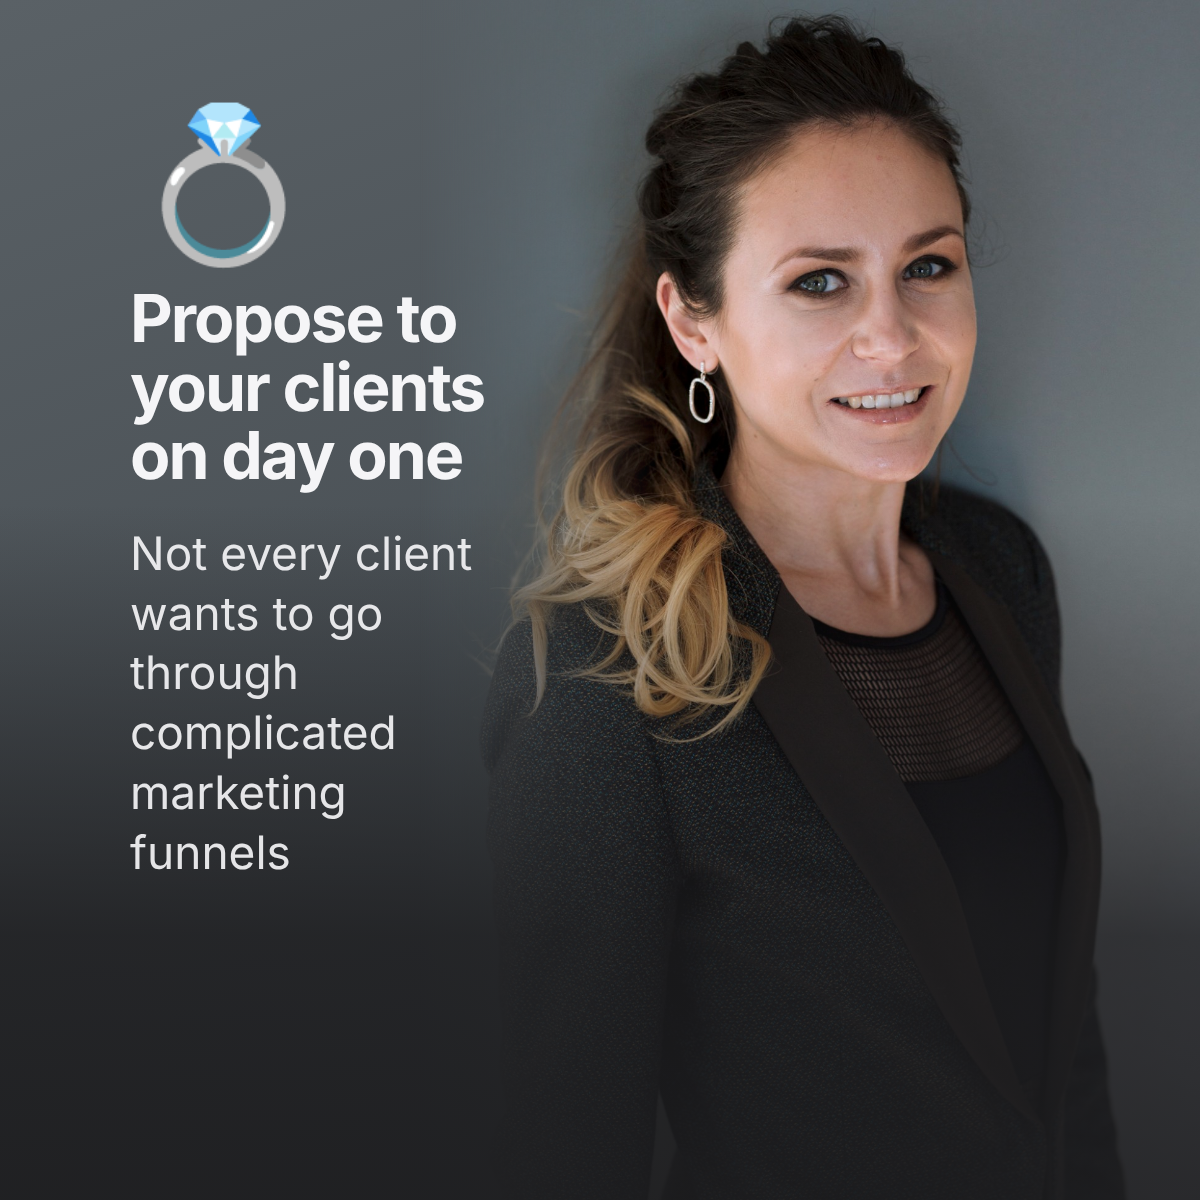
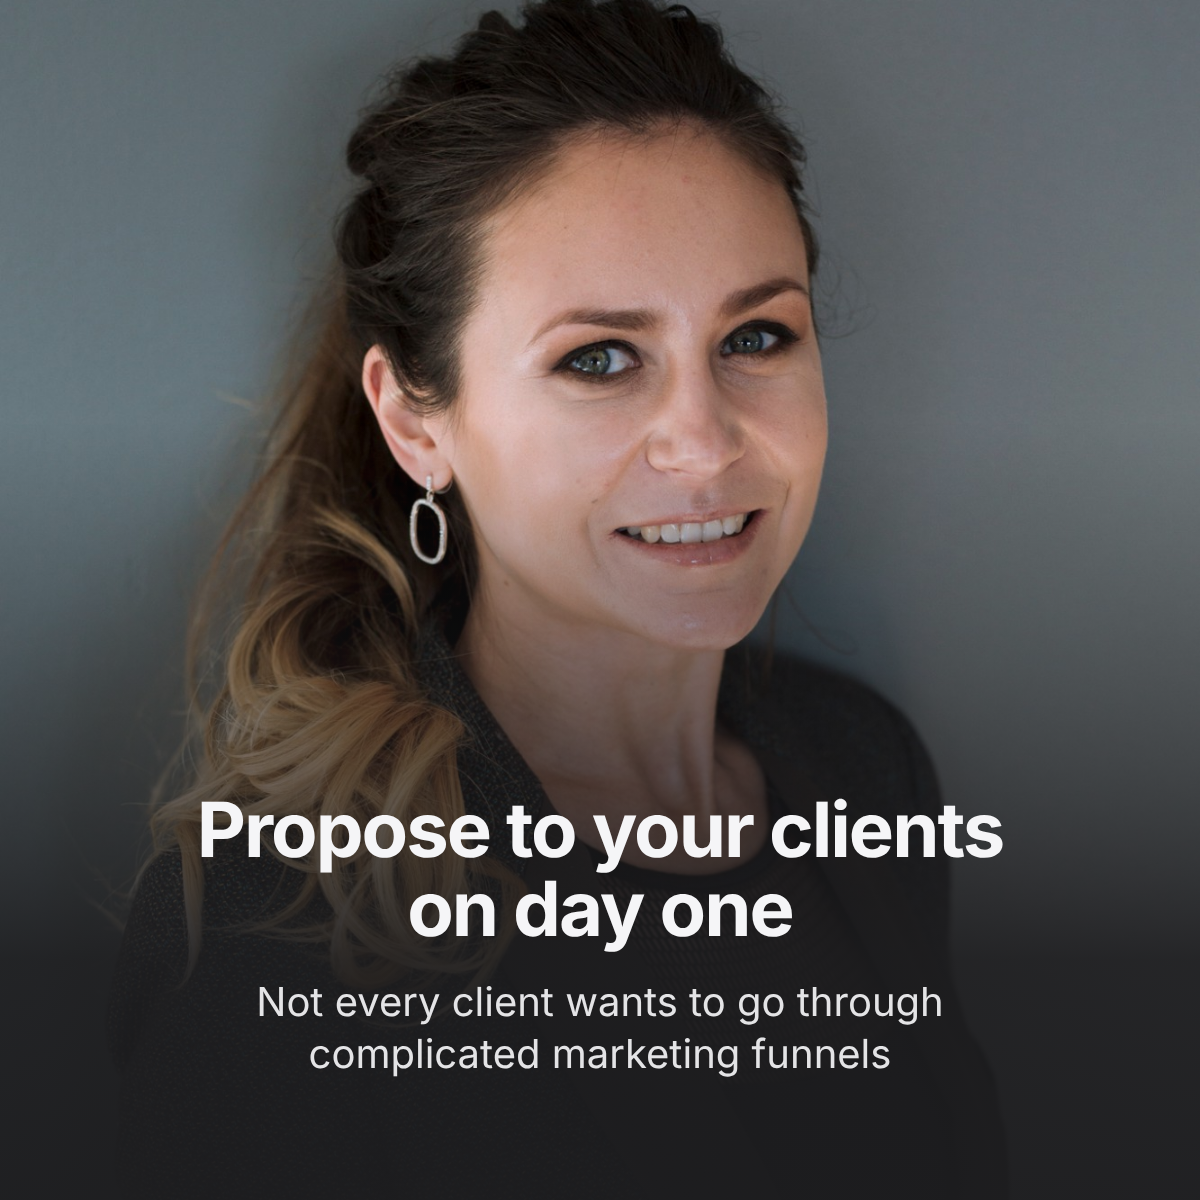
LinkedIn cover: centered headline inside safe area, emoji removed to keep face clear
Claude-Session: https://claude.ai/code/session_01BfJAaEZY2EfD7nu2Y1Q1pB

diff --git a/brand/zimols/render.js b/brand/zimols/render.js
@@ -57,6 +57,10 @@ function slide(s) {
     const sh = s.photoShift || 0;
     const fade = s.textTop ? ';-webkit-mask-image:linear-gradient(to bottom,transparent 0%,#000 30%);mask-image:linear-gradient(to bottom,transparent 0%,#000 30%)' : '';
     const box = s.photoBox;
+    if (s.centerBottom) {
+      return `<div class="s bg-ink"><img class="photo" style="object-position:50% 18%" src="${img}"><div style="position:absolute;inset:0;background:linear-gradient(to bottom,rgba(29,29,31,0) 35%,rgba(29,29,31,.92) 80%,rgba(29,29,31,.97) 100%)"></div>
+      <div class="pad" style="left:150px!important;right:150px!important;top:auto!important;bottom:120px!important;text-align:center">${s.emoji ? `<div class="emoji">${s.emoji}</div>` : ''}<div class="display" style="font-size:${s.headlineSize || 76}px;text-align:center">${s.headline.join('<br>')}</div><div class="sub" style="margin-top:28px;font-size:40px;text-align:center">${s.sub}</div></div></div>`;
+    }
     const imgStyle = box ? ` style="left:${box.left}px;top:${box.top || 0}px;width:${box.width}px;height:${box.height}px;object-fit:cover;-webkit-mask-image:linear-gradient(to right,transparent 0%,#000 30%);mask-image:linear-gradient(to right,transparent 0%,#000 30%)"` : (sh ? ` style="top:${sh}px;height:${F.h - sh}px${fade}"` : '');
     const top = (s.textTop && !s.photoBox) ? `<div class="shade" style="background:linear-gradient(to bottom,rgba(29,29,31,.95) 0%,rgba(29,29,31,0) 45%)"></div>` : '<div class="shade"></div>';
     const padStyle = s.photoBox ? ' style="top:110px;bottom:auto;right:auto;width:360px"' : (s.textTop ? ' style="top:100px;bottom:auto"' : '');
